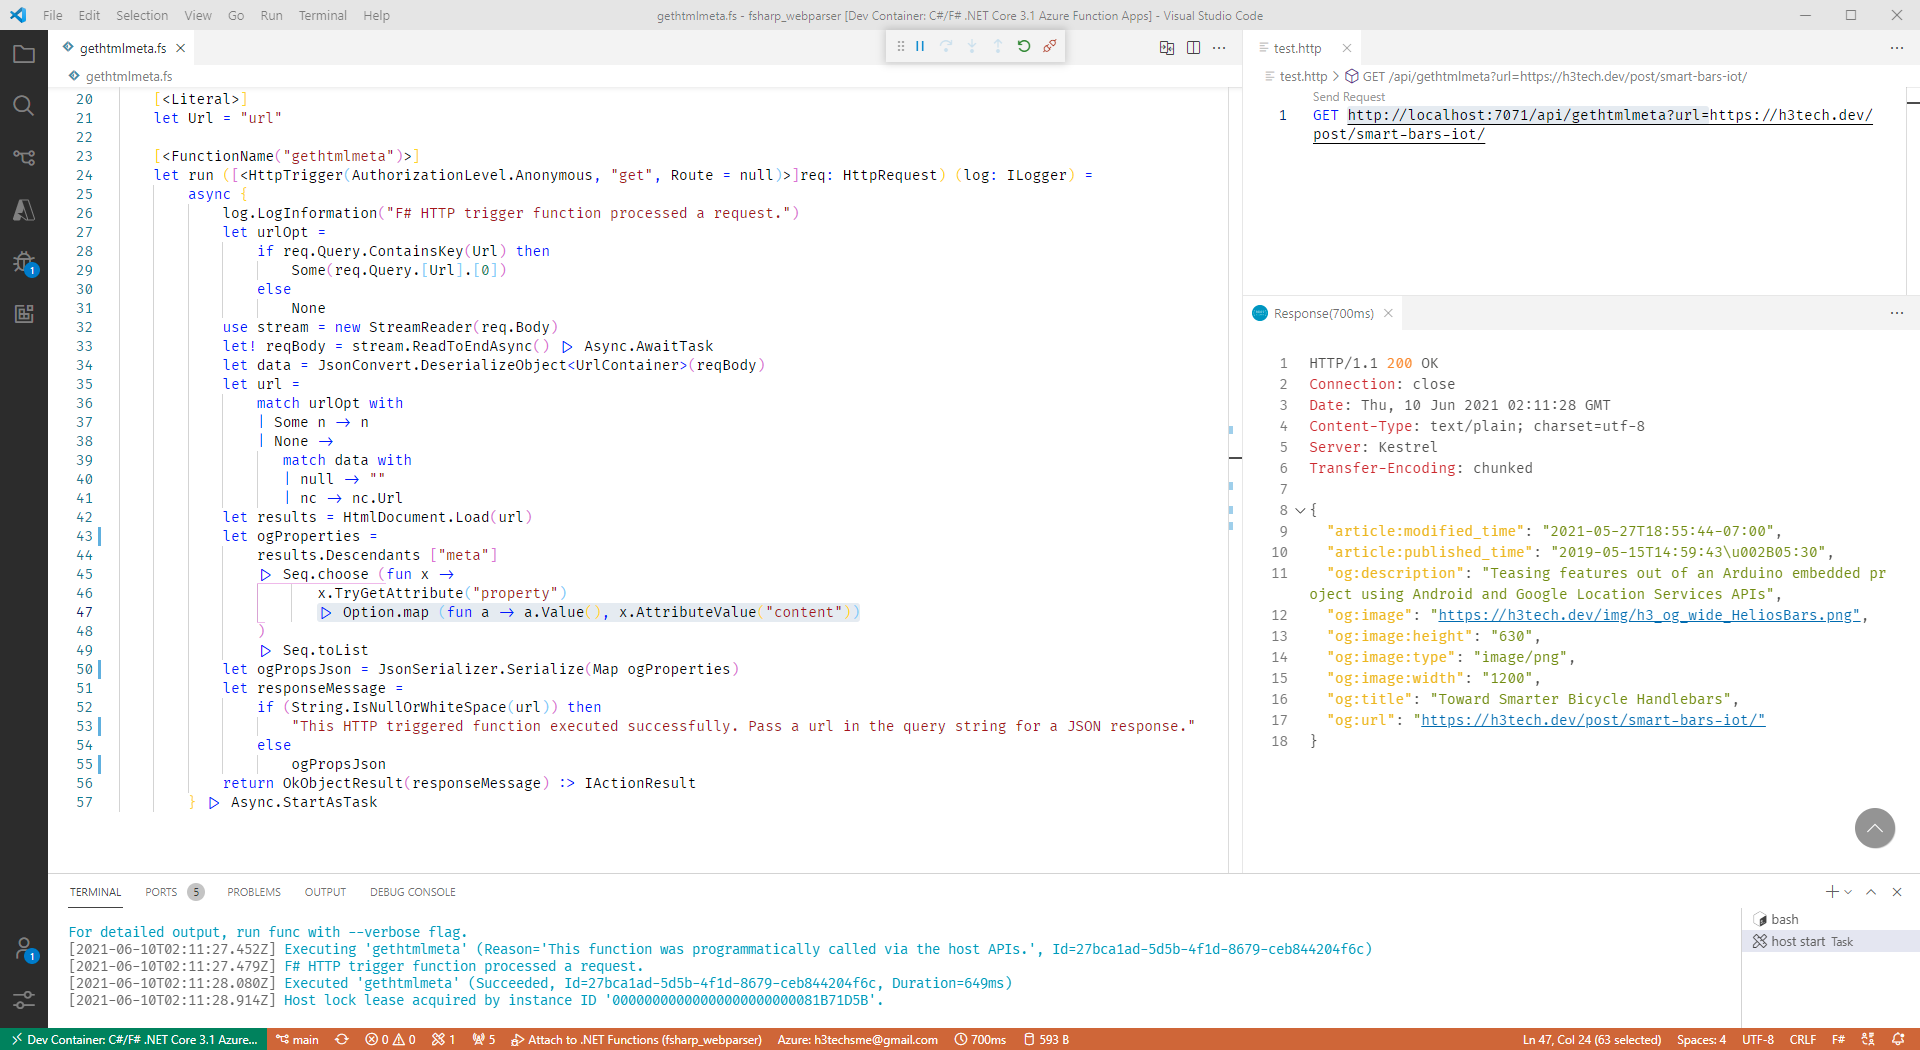
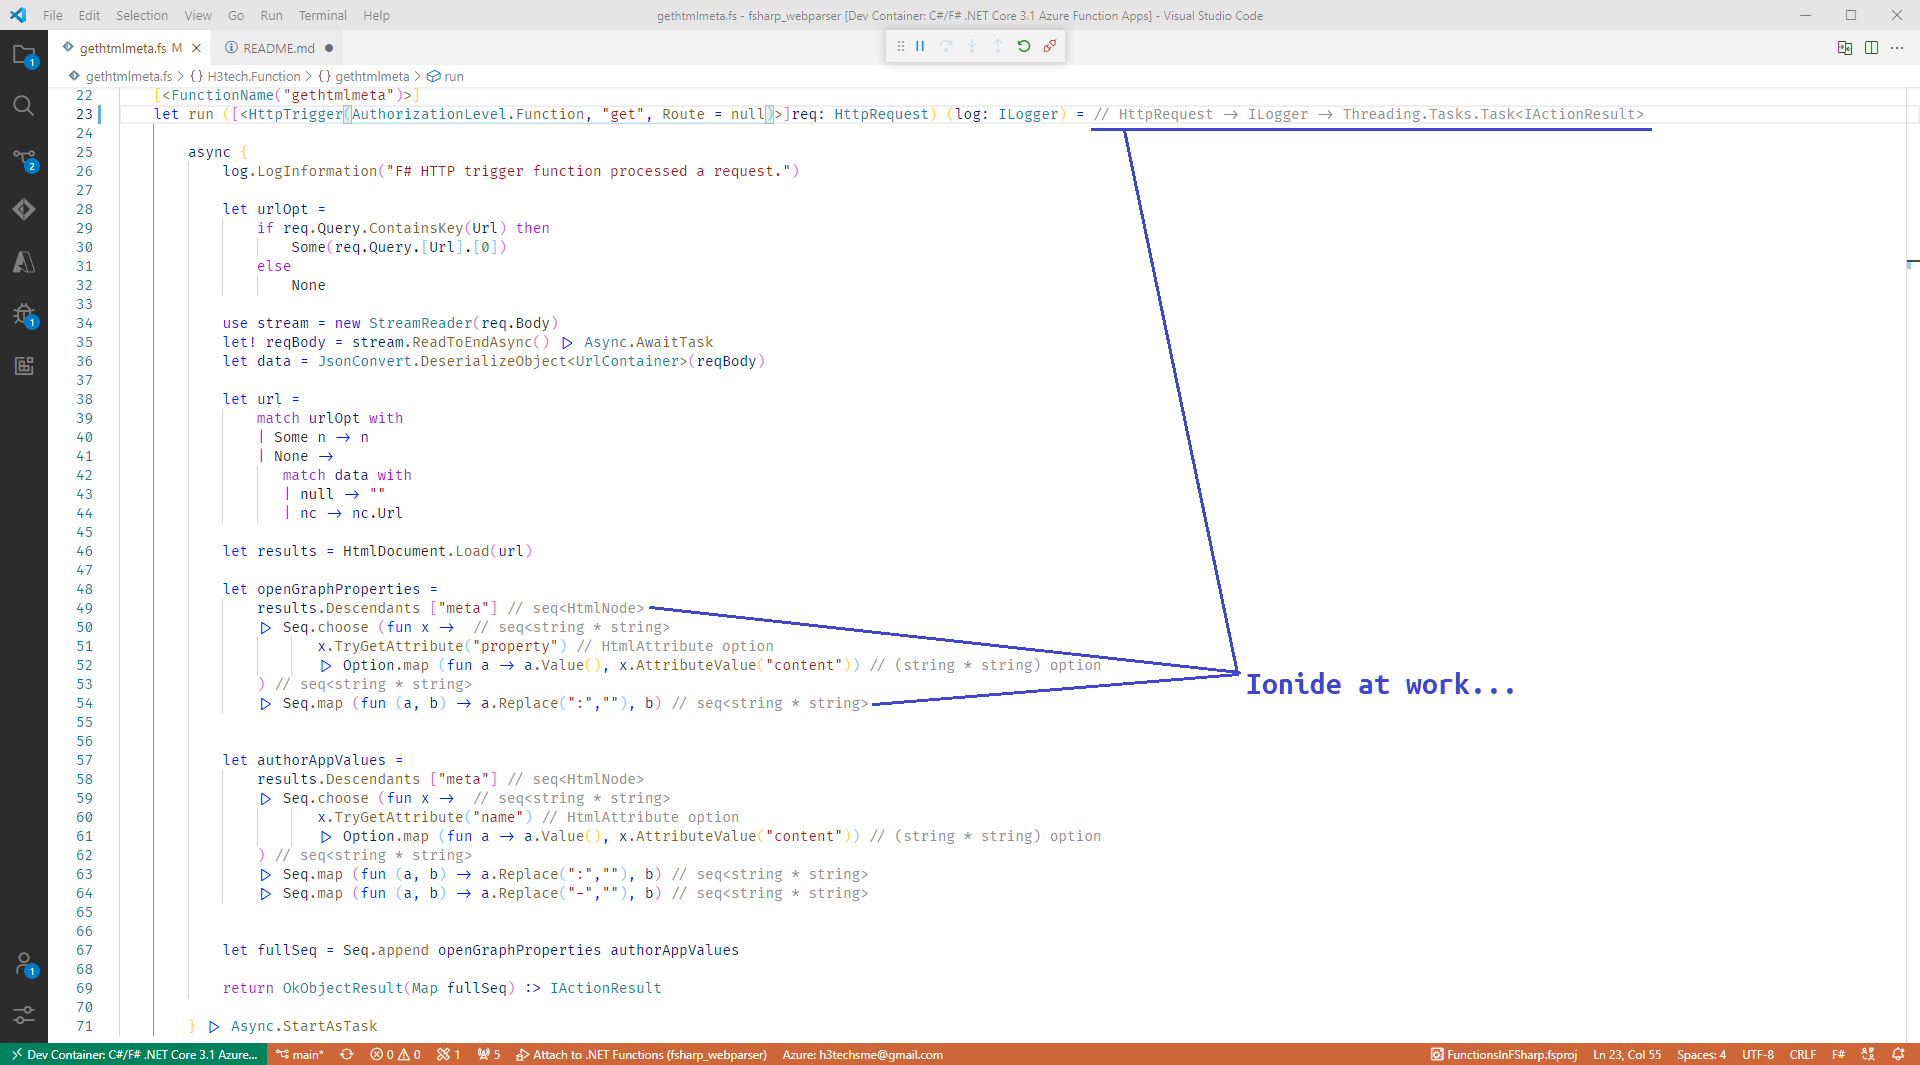
updated readme - function token

diff --git a/README.md b/README.md
@@ -12,74 +12,16 @@ sudo dpkg -i packages-microsoft-prod.deb
 sudo apt-get update
 sudo apt-get install azure-functions-core-tools-3
 dotnet add package FSharp.Data
-dotnet add package System.Text.Json
 ```
 
 The good news is that this provides direct feedback for sample requests and can run as a stand-alone host on my build machine.
 
-## The Wrinkle
+## An Ionide Wrinkle (.NET Core 3.1 + .NET 5 = :two_hearts: )
 
-I was looking for a way to output a "clean" set of key value pairs from the meta property tags. It turns out after some head-scratching that it was a pretty straight-forward affair. I simply had to get my head wrapped around two small points in the FSharp.Data and System.Text.Json APIs.
+I felt a bit ham-strung by *not* seeing Ionide "light up" in VS Code within the container. After some rather whinging on the F# slack #beginners channel some clarity emerged that **both** .NET Core 3.1 an .NET 5 needed to be available in the container. This is because .NET 5 is used by Ionide to do the real-time parsing of the code against he compiler to inform the editor layout. 
 
-First was to get the value of the attribute for each meta property. I had mistakenly pulled the attribute instead of the attribute **value**.
+![Ionide in F# Azure Functions](screenshot2.png)
 
-```fsharp
-let links = 
-    results.Descendants ["meta"]
-    |> Seq.choose (fun x -> 
-            x.TryGetAttribute("property")
-            |> Option.map (fun a -> a.Value(), x.AttributeValue("content"))
-    )
-    |> Seq.toList
-```
-
-Second was to parse the list into a concise key/value record set. The part that I was missing (and I spent way too much time diverted to options which had nothing to do with it) was to add the Map function to the call. This maps the elements to the key and value position of each set. 
-
-With just List passed directly to the JSON serializer ...
-
-```fsharp
-let linksJson = JsonSerializer.Serialize links
-```
-
-you get the following - a list with "ItemX" etc for the keys
-
-```json
-
-[
-  {
-    "Item1": "og:image",
-    "Item2": "https://h3tech.dev/img/h3_og_wide_HeliosBars.png"
-  },
-  {
-    "Item1": "og:title",
-    "Item2": "Toward Smarter Bicycle Handlebars"
-  }
-]
-
-// etc
-```
-
-But when you apply a Map as you pass in the list
-
-```fsharp
-let linksJson = JsonSerializer.Serialize(Map links)
-```
-
-I get the expected application of the tuples to their respective position.
-
-```json
-{
-  "article:modified_time": "2021-05-27T18:55:44-07:00",
-  "article:published_time": "2019-05-15T14:59:43\u002B05:30",
-  "og:description": "Teasing features out of an Arduino embedded project using Android and Google Location Services APIs",
-  "og:image": "https://h3tech.dev/img/h3_og_wide_HeliosBars.png",
-  "og:image:height": "630",
-  "og:image:type": "image/png",
-  "og:image:width": "1200",
-  "og:title": "Toward Smarter Bicycle Handlebars",
-  "og:url": "https://h3tech.dev/post/smart-bars-iot/"
-}
-```
-![F# in Dev Container](screenshot2.png)
+### TODOs
 
 There may be situations where certain openGraph tags are not available (and other fields would need to be substituted from the page). But I'll sort that out as I encounter issues. So far all of the pages I've pulled for placement in my site have had populated tags. So it will continue to run as-is in a dev container on my local build machine and it'll continue to serve up og meta tags requested by Hugo to be embedded in the static site pages.
